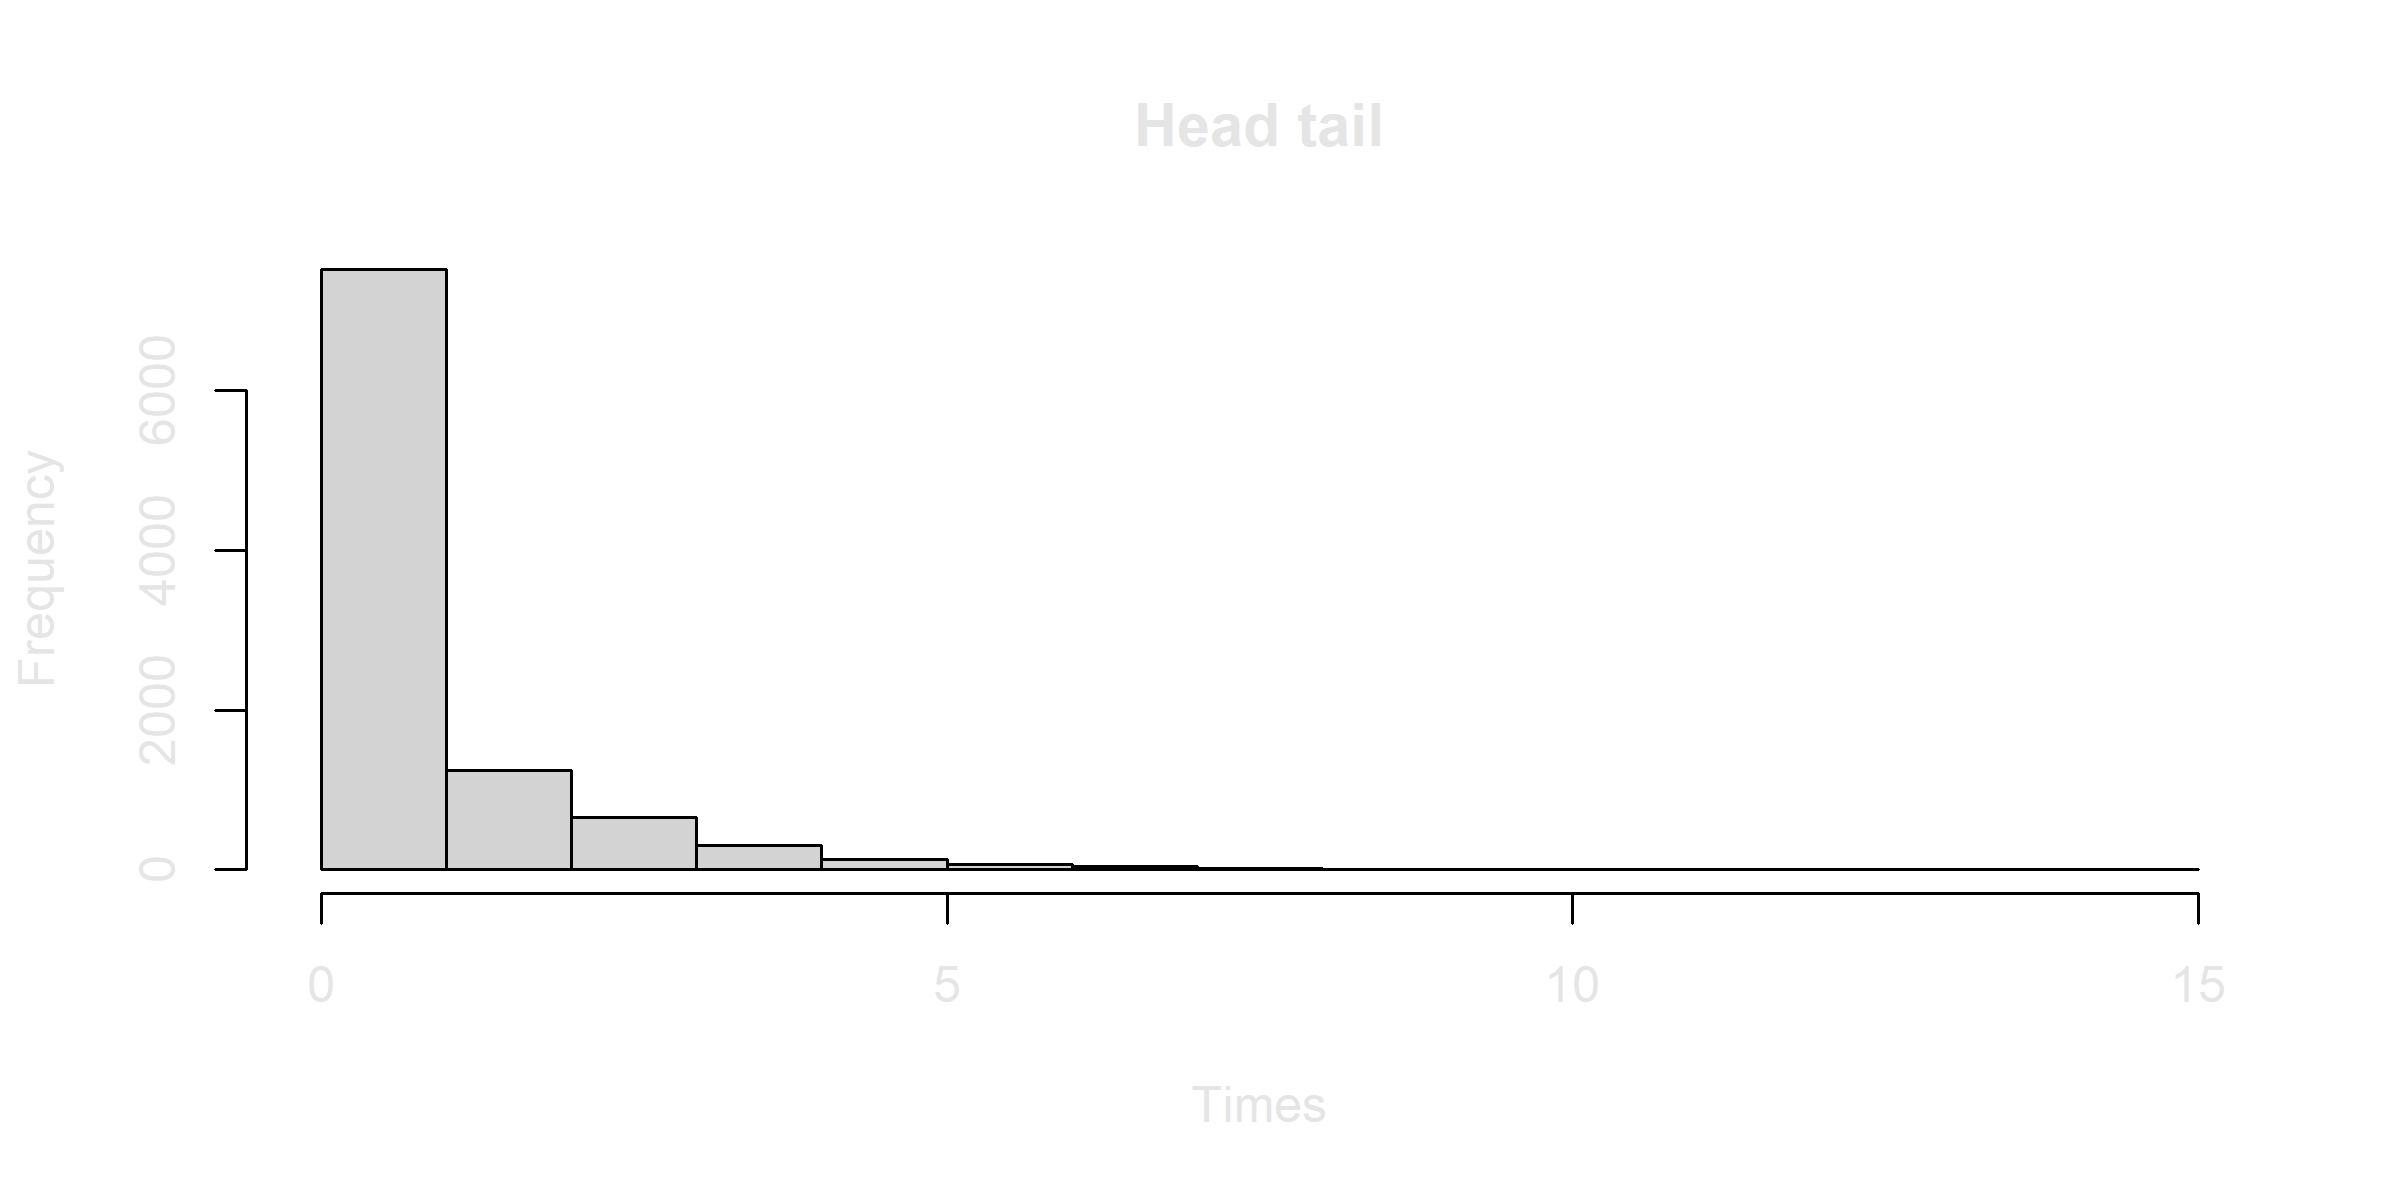
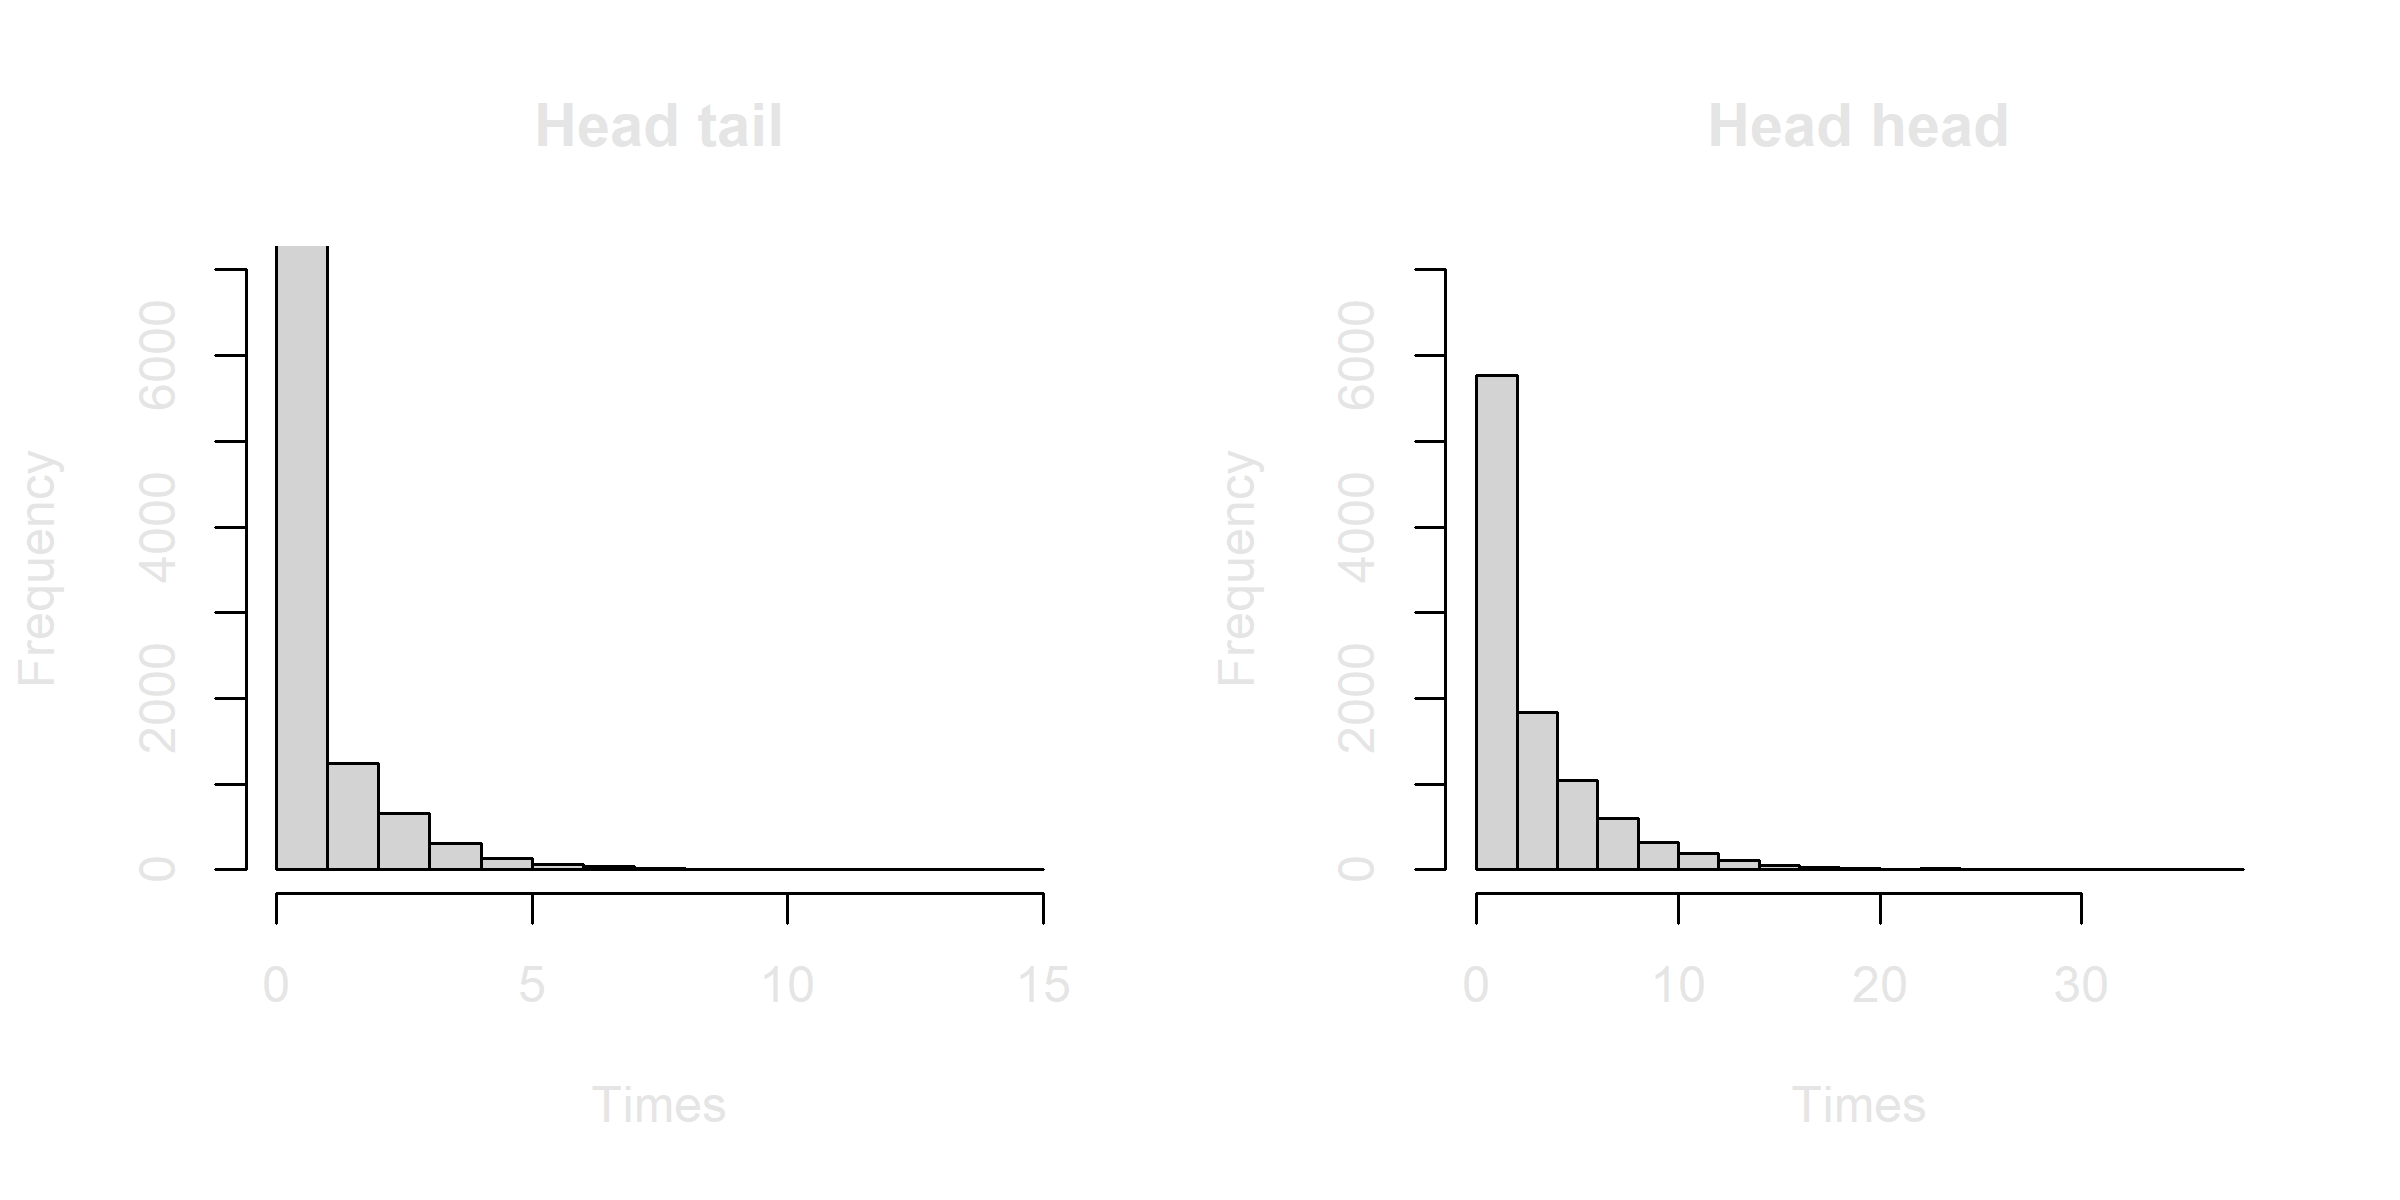
1

diff --git a/content/post/2020-09-08-tim-s-homework-3-performed-with-r.md b/content/post/2020-09-08-tim-s-homework-3-performed-with-r.md
@@ -59,9 +59,7 @@ for (i in 1:10000) {
 hist(ht, main = "Head tail", xlab = "Times")
 hist(hh, main = "Head head", xlab = "Times")
 ```
-The "head tail" result ![](hwk3/hw3.fig1.png)
-
-The "head head" result ![](hwk3/hw3.fig2.png)
+The visulized results of "head tail" (left) and "head head" (right) ![](hwk3/hw3.fig1.png)
 
 __I want to compare thses two results and put both histgram in one figure:__
 
